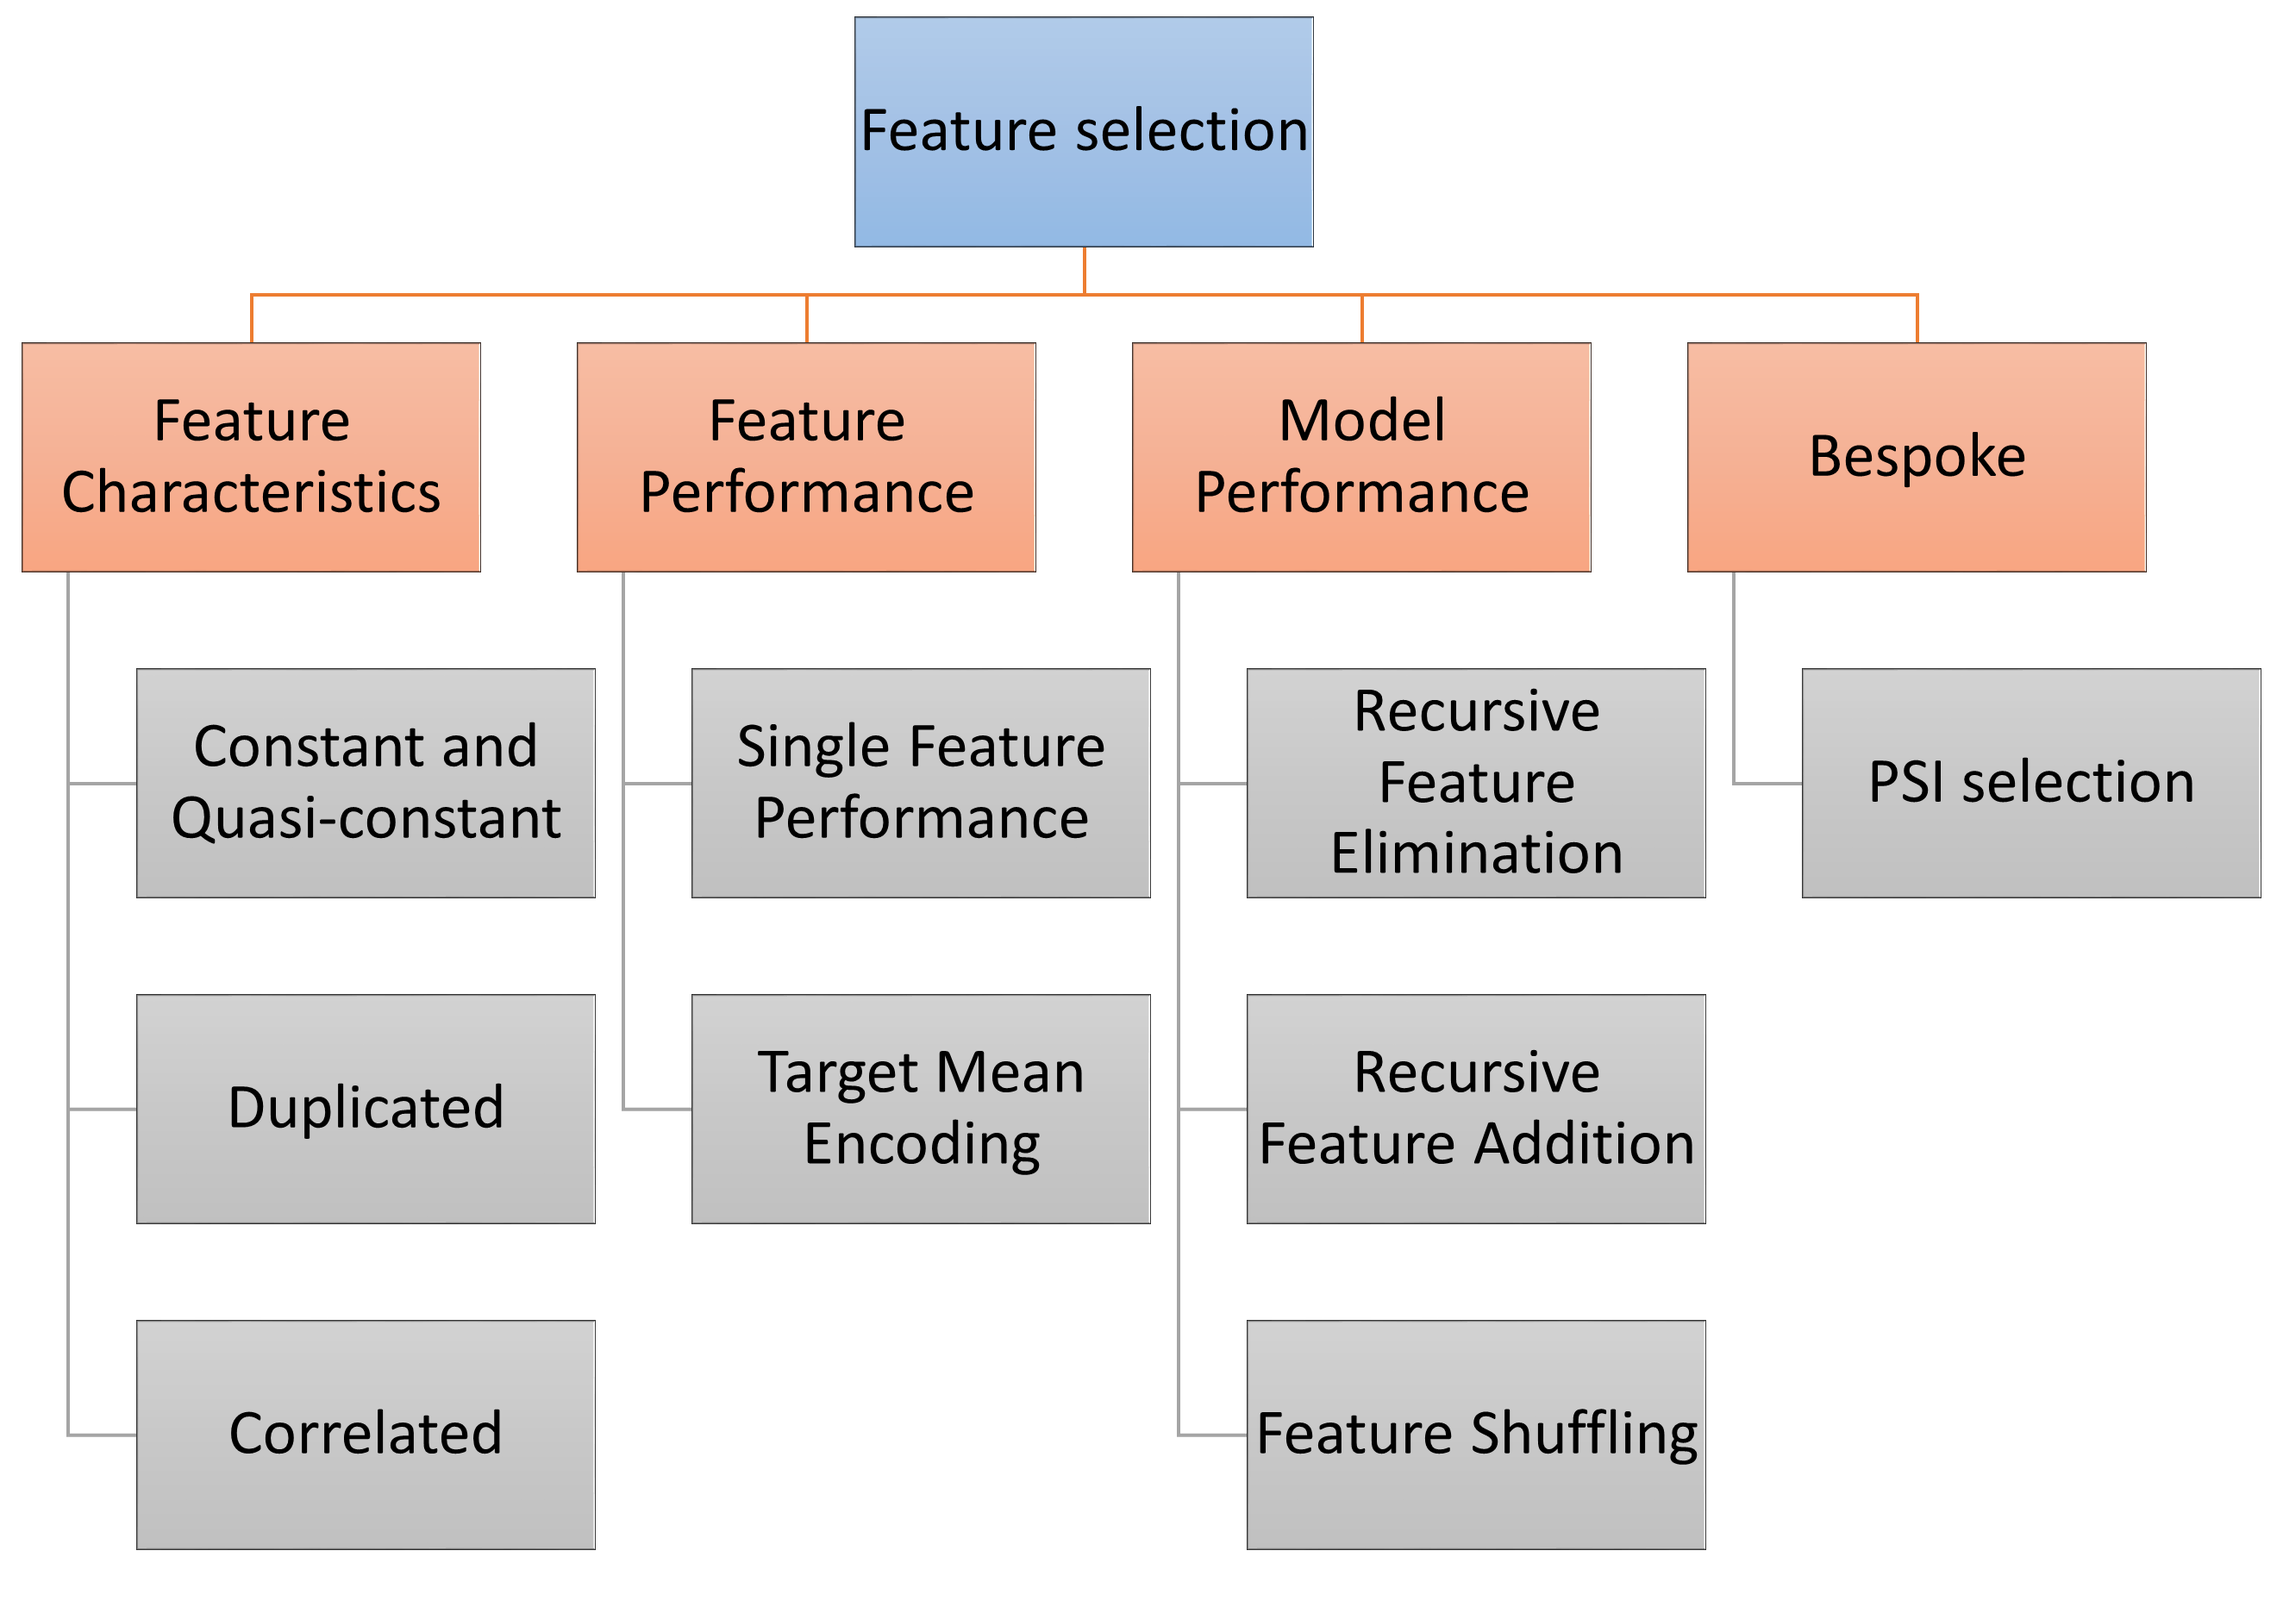
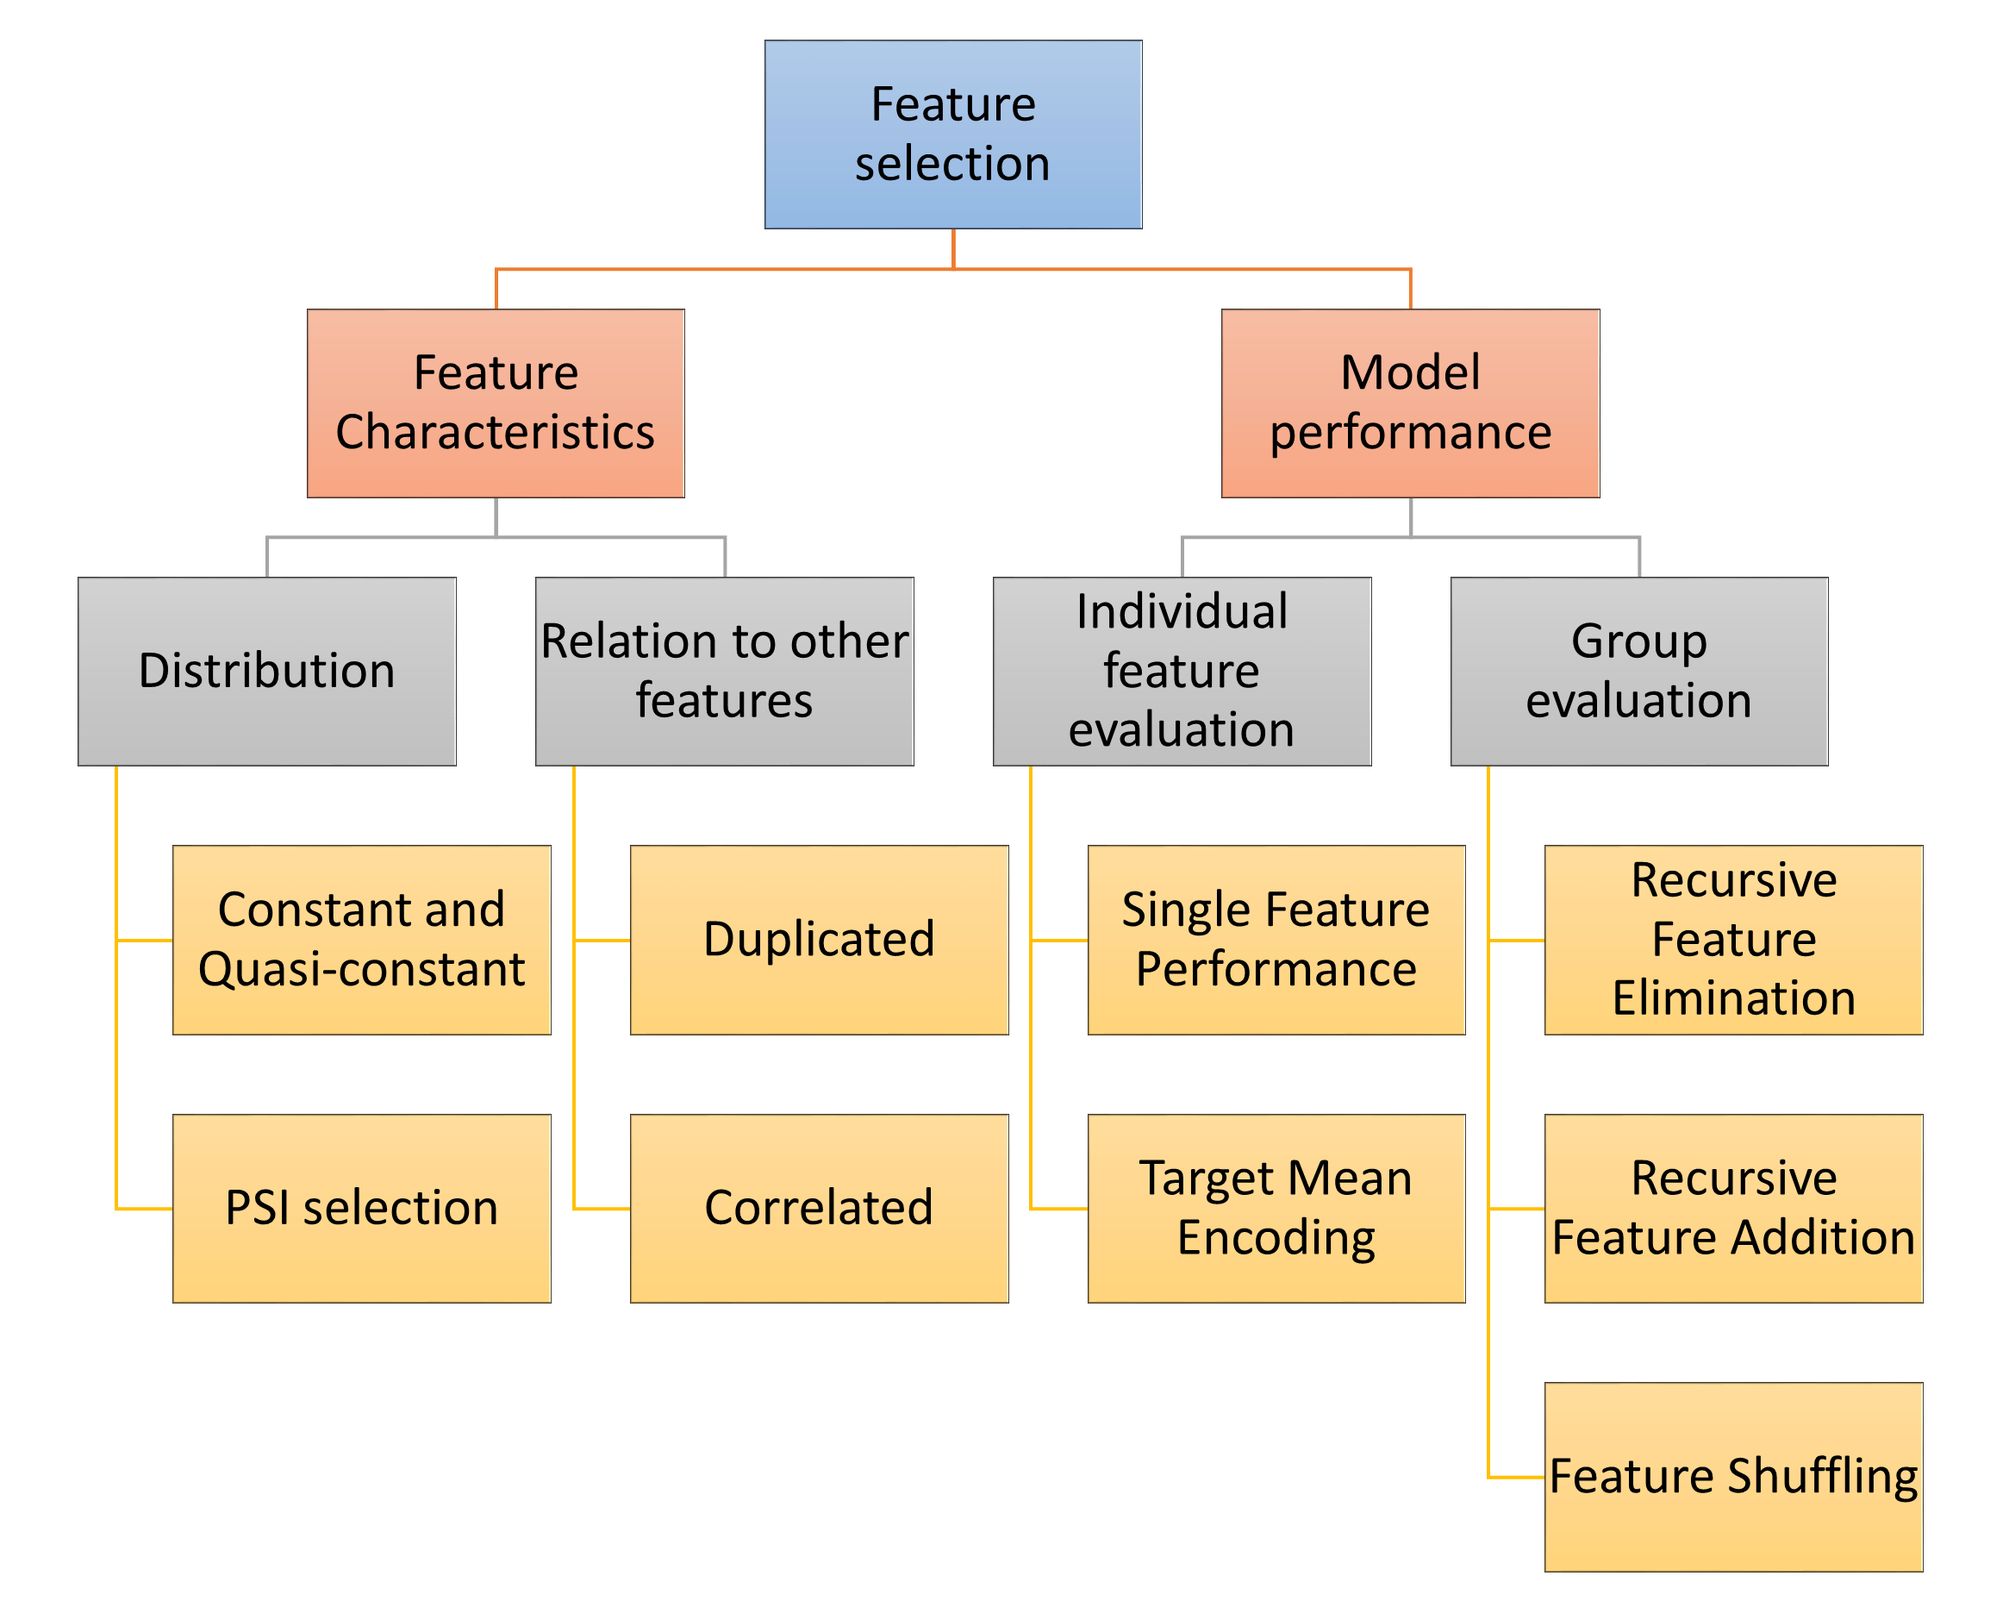
edits user guide index

diff --git a/docs/user_guide/selection/index.rst b/docs/user_guide/selection/index.rst
@@ -8,24 +8,30 @@ Feature Selection
 =================
 
 Feature-engine's feature selection transformers identify features with low predictive
-performance, and drop them from the dataset. To our knowledge, the feature selection
-algorithms supported by Feature-engine are not yet available in other libraries.
+performance and drop them from the dataset. To our knowledge, the feature selection
+algorithms supported by Feature-engine are not yet available in other libraries. These
+algorithms have been gathered from data science competitions or used in the industry.
+
 
 Selection Mechanism Overview
 ----------------------------
 
-Feature-engine's selectors select features based on 1 of 3 main mechanisms: they look at
-the feature's characteristics, or they look at the performance of a single feature, or
-they evaluate the performance of a feature within the group of features.
+Feature-engine's transformers select features based on 2 mechanism. The first mechanism
+involves selecting features based on the features intrinsic characteristics like distributions
+or their relationship with other features. The second mechanism involves selecting features
+based on their impact on the machine learning model performance. In this context, features
+are evaluated individually or as part of the group by different algorithms.
 
 .. figure::  ../../images/selectionChart.png
    :align:   center
 
-   Selection process characteristics
+   Selection mechanisms - Overview
 
 For example, in the first pillar, features will be selected based on the diversity of their
-values, or their relation to other features. This way, features that show the same value in all
-or almost all the observations will be dropped, or duplicated or correlated features will be dropped.
+values, changes in their distribution or their relation to other features. This way,
+features that show the same value in all or almost all the observations will be dropped,
+features which distribution changes in time will be dropped, or duplicated or correlated
+features will be dropped.
 
 Algorithms that select features based on individual feature performance will select features
 by either training a machine learning model using an individual feature, or estimating model
@@ -38,9 +44,6 @@ re-evaluate the model performance.
 These methods are normally geared to improve the overall performance of the final machine learning model
 as well as reducing the feature space.
 
-Feature-engine also hosts methods to select features based on their characteristics, that may or
-may not affect model performance per se, but are required by regulations in some sectors.
-
 
 Selectors Characteristics Overview
 ----------------------------------
@@ -49,12 +52,34 @@ Some Feature-engine's selectors work with categorical variables off-the-shelf an
 missing data in the variables. These gives you the opportunity to quickly screen features
 before jumping into any feature engineering.
 
-In the following image we highlight the main Feature-engine selectors characteristics:
+In the following tables we highlight the main Feature-engine selectors characteristics:
 
-.. figure::  ../../images/summary/selectionSummary.png
-   :align:   center
+Selection based on feature characteristics
+~~~~~~~~~~~~~~~~~~~~~~~~~~~~~~~~~~~~~~~~~~
 
-   Summary of Feature-engine's selectors main characteristics
+============================================ ======================= ============= ====================================================================================
+    Transformer                                Categorical variables   Allows NA	    Description
+============================================ ======================= ============= ====================================================================================
+:class:`DropFeatures()`                         √	                      √	            Drops arbitrary features determined by user
+:class:`DropConstantFeatures()`  	            √	                      √	            Drops constant and quasi-constant features
+:class:`DropDuplicateFeatures()`                √	                      √             Drops features that are duplicated
+:class:`DropCorrelatedFeatures()`               ×	                      √	            Drops features that are correlated
+:class:`SmartCorrelatedSelection()`	            ×	                      √	            From a correlated feature group drops the less useful features
+:class:`DropHighPSIFeatures()`	                ×	                      √	            Drops features with high Population Stability Index
+============================================ ======================= ============= ====================================================================================
+
+Selection based on model performance
+~~~~~~~~~~~~~~~~~~~~~~~~~~~~~~~~~~~~
+
+============================================ ======================= ============= ====================================================================================
+    Transformer                                Categorical variables   Allows NA	    Description
+============================================ ======================= ============= ====================================================================================
+:class:`SelectByShuffling()`	                ×	                      ×	            Selects features if shuffling their values causes a drop in model performance
+:class:`SelectBySingleFeaturePerformance()`	    ×	                      ×	            Removes observations with missing data from the dataset
+:class:`SelectByTargetMeanPerformance()`        √                         ×             Using the target mean as performance proxy, selects high performing features
+:class:`RecursiveFeatureElimination()`          ×                         ×             Removes features recursively by evaluating model performance
+:class:`RecursiveFeatureAddition()`             ×                         ×             Adds features recursively by evaluating model performance
+============================================ ======================= ============= ====================================================================================
 
 In short, selection procedures that require training a machine learning model from Scikit-learn
 require numerical variables without missing data. Selection procedures based on correlation work
@@ -64,19 +89,21 @@ missing data as well.
 
 The :class:`SelectBySingleFeaturePerformance()` uses the target mean value as proxy for prediction,
 replacing categories or variable intervals by these values and then determining a performance metric.
-This, it is suitable for both categorical and numerical variables. In its current implementation,
+Thus, it is suitable for both categorical and numerical variables. In its current implementation,
 it does not support missing data.
 
-Throughout the user guide, you will find more details about each of the feature selection procedures.
-
-:class:`DropHighPSIFeatures()` allows to remove features with shifted distribution. This is done by
+:class:`DropHighPSIFeatures()` allows to remove features with changes in their distribution. This is done by
 splitting the input dataframe in two parts and comparing the distribution of each feature in the two
 parts. The metric used to assess distribution shift is the Population Stability Index (PSI). Removing
 unstable features may lead to more robust models. In fields like Credit Risk Modelling, the regulator
-often requires to the PSI of the final feature set to be below are given threshold.  
+often requires the PSI of the final feature set to be below are given threshold.
 
-Transformers
-------------
+Throughout the user guide, you will find more details about each of the feature selection procedures.
+
+Feature Selection Algorithms
+----------------------------
+
+Click below to find more details on how to use each one of the transformers.
 
 .. toctree::
    :maxdepth: 1
@@ -86,12 +113,12 @@ Transformers
    DropDuplicateFeatures
    DropCorrelatedFeatures
    SmartCorrelatedSelection
+   DropHighPSIFeatures
    SelectByShuffling
    SelectBySingleFeaturePerformance
    SelectByTargetMeanPerformance
    RecursiveFeatureElimination
    RecursiveFeatureAddition
-   DropHighPSIFeatures
 
 
 Additional Resources

diff --git a/docs/api_doc/selection/index.rst b/docs/api_doc/selection/index.rst
@@ -31,7 +31,7 @@ Selection based on feature characteristics
 ============================================ ======================= ============= ====================================================================================
 
 Selection based on model performance
-------------------------------------------
+------------------------------------
 
 ============================================ ======================= ============= ====================================================================================
     Transformer                                Categorical variables   Allows NA	    Description
